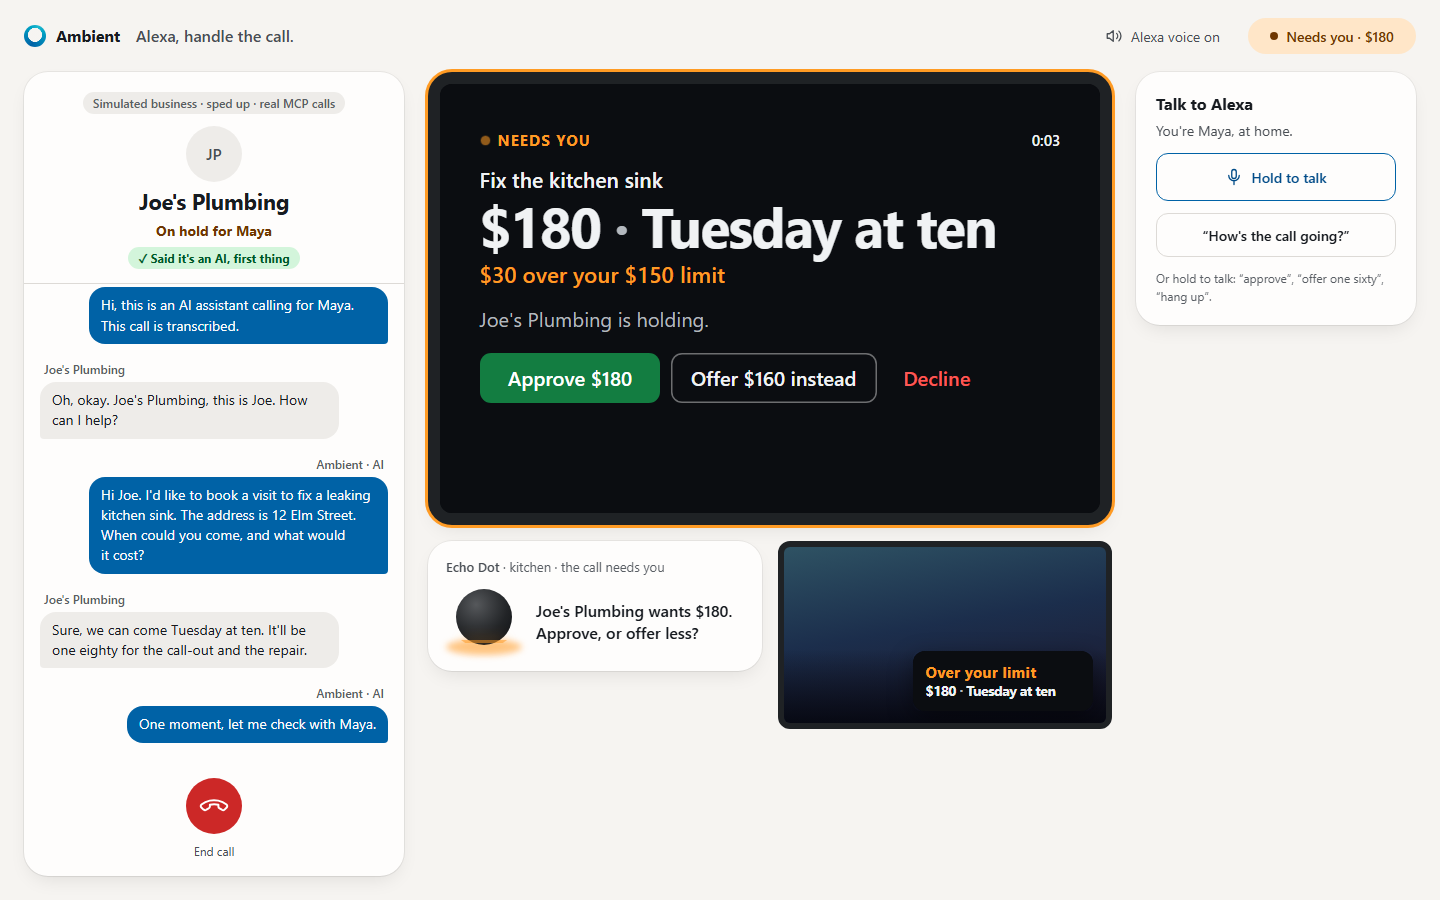
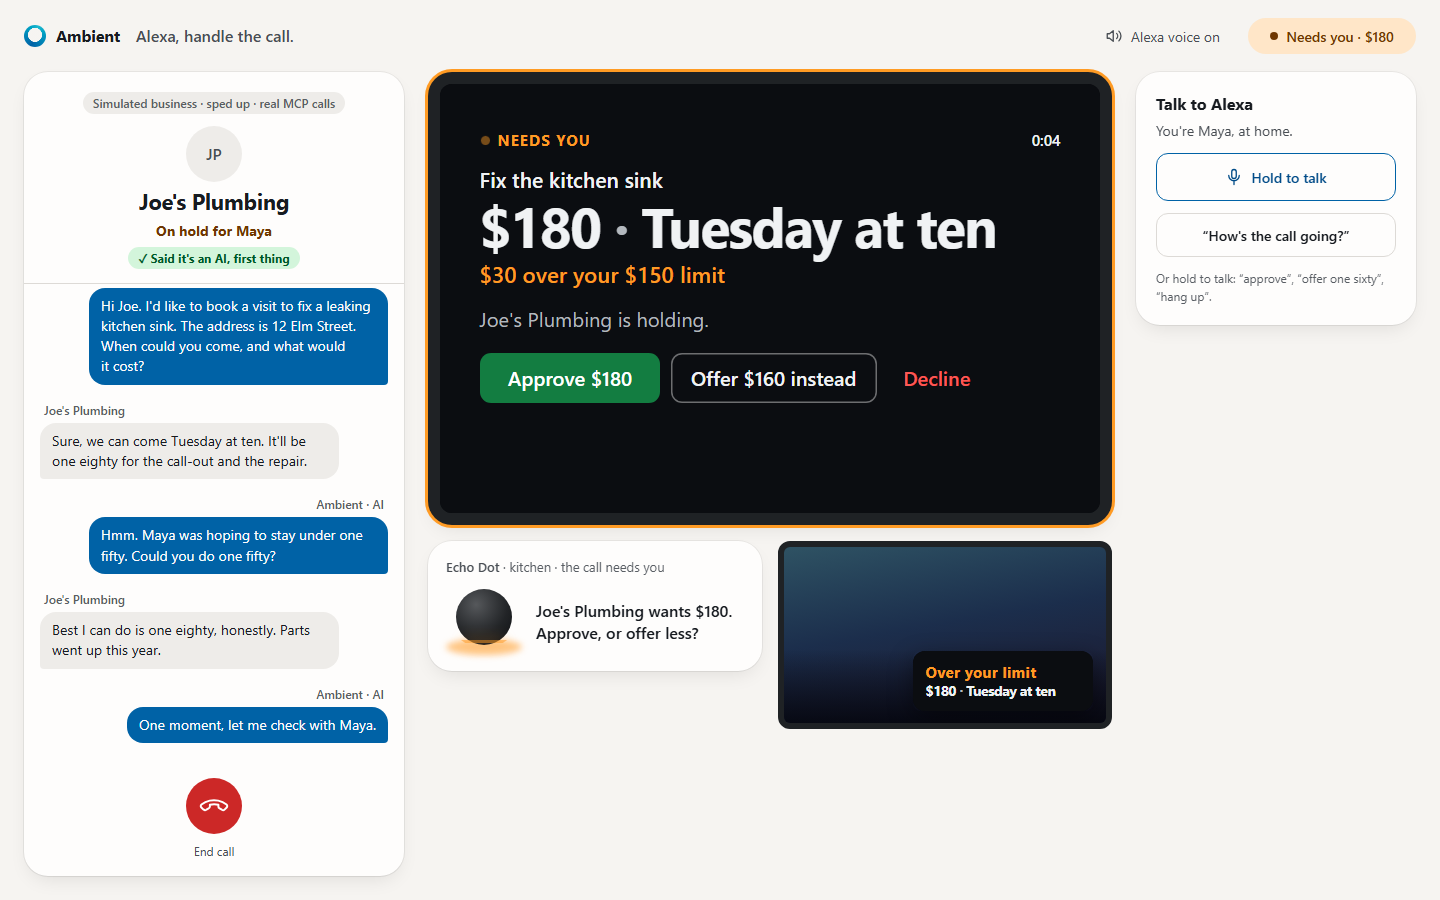
Speak like a person on the call and to the owner
The voice critic found a stacked question and menu on the approval, an
offer reply that never echoed the amount, third-person declines, and a
demo with no haggling. Alexa now asks one short question over the
limit ("Joe's Plumbing wants one hundred eighty dollars for Tuesday at
ten. Your limit is one hundred fifty dollars. Book it, or offer
less?"), echoes an offer ("Okay, offering one hundred sixty dollars"),
says "Okay, booking it at ..." on approval, and tells the owner "You
said no to ..." after a decline. The reprompt repeats the open
question instead of a generic prompt.

On the call, the scripted agent first counters at the owner's limit,
the business refuses once, and only then does the agent ask the owner.
The closing line names the time. The smoke run now prints both sides
of the call, and docs/demo/smoke-transcript.txt holds a fresh run.

Changed region(s): [[0.0312, 0.3111, 0.2812, 0.6222], [0.0312, 0.6844, 0.2188, 0.7467], [0.0938, 0.7467, 0.25, 0.8089]]

diff --git a/src/voice.ts b/src/voice.ts
@@ -1,5 +1,6 @@
 import type { Approval, RuntimeState, RunView } from "./types.js";
 import { dollarsInWords } from "./words.js";
+import { offerIn } from "./calls/rules.js";
 
 // Words that open an instruction but don't identify it.
 const FILLER = new Set(["please", "can", "could", "you", "hey", "ok", "okay", "just", "um"]);
@@ -54,6 +55,12 @@ function lastLineFrom(view: RunView, speaker: string): string | undefined {
 
 /** The approval ask on its own — used as the elicitation message. */
 export function approvalAsk(view: RunView, ctx: SpeakContext): string {
+  const business = callee(view);
+  const approval = view.approval;
+  if (business && approval?.kind === "spend" && approval.amountUsd !== undefined && approval.limitUsd !== undefined) {
+    const when = approval.when ? ` for ${approval.when}` : "";
+    return `${business} wants ${dollarsInWords(approval.amountUsd)}${when}. Your limit is ${dollarsInWords(approval.limitUsd)}. Book it, or offer less?`;
+  }
   const request = view.approval?.description ?? view.approval?.command;
   if (request && view.approval?.amountUsd !== undefined) {
     const amount = dollarsInWords(view.approval.amountUsd);
@@ -75,8 +82,10 @@ export function speak(view: RunView, ctx: SpeakContext): string {
   const business = callee(view);
   if (business) {
     if (view.status === "waiting_approval") {
+      const ask = approvalAsk(view, ctx);
+      if (ask.endsWith("Book it, or offer less?")) return ask;
       const choices = view.approval?.kind === "dial" ? "Say yes to place the call, or no." : "Say approve, deny, or offer a different amount.";
-      return `${approvalAsk(view, ctx)} ${choices}`;
+      return `${ask} ${choices}`;
     }
     if (view.status === "cancelled") return `You ended the call before ${business} confirmed. Nothing was booked.`;
     if (view.status === "running" || view.status === "accepted" || view.status === "queued") {
@@ -90,6 +99,8 @@ export function speak(view: RunView, ctx: SpeakContext): string {
       const outcome = view.outcome;
       if (outcome?.kind === "confirmed") return clampSentences(outcome.summary);
       if (outcome?.kind === "unconfirmed") return "The call ended before they confirmed, so I won't assume it's booked.";
+      const declined = outcome && /^\S+ declined (.+)$/.exec(outcome.reason);
+      if (declined) return `You said no to ${stripEnd(declined[1]!)}, so I ended the call. Nothing is booked.`;
       if (outcome) return clampSentences(`${stripEnd(outcome.reason)}.`);
       return clampSentences(view.answer ?? `${label} finished ${title}.`);
     }
@@ -118,8 +129,10 @@ export function speak(view: RunView, ctx: SpeakContext): string {
   }
 }
 
-export function steerReply(view: RunView, ctx: SpeakContext): string {
+export function steerReply(view: RunView, ctx: SpeakContext, said?: string): string {
   const business = callee(view);
+  const offer = said === undefined ? undefined : offerIn(said);
+  if (business && offer !== undefined) return `Okay, offering ${dollarsInWords(offer)}.`;
   return business ? `Okay, I'll tell ${business}.` : `Noted — passed that to ${ctx.label} while it works on "${view.title}".`;
 }
 

diff --git a/src/alexa.ts b/src/alexa.ts
@@ -2,7 +2,8 @@ import { timingSafeEqual } from "node:crypto";
 import type { OAuthProvider } from "./auth.js";
 import type { RuntimeEntry, RuntimeRegistry } from "./runtimes/registry.js";
 import type { RunStatus, RunView } from "./types.js";
-import { speak } from "./voice.js";
+import { speak, steerReply } from "./voice.js";
+import { dollarsInWords } from "./words.js";
 
 type AlexaEnvelope = Record<string, unknown>;
 
@@ -57,13 +58,18 @@ function speech(value: string): { type: "SSML"; ssml: string } {
   return { type: "SSML", ssml: `<speak>${escapeXml(value)}</speak>` };
 }
 
+function repromptFor(value: string): string {
+  const question = value.match(/[^.?!]+?$/)?.[0]?.trim();
+  return question ?? "What should I call about?";
+}
+
 function response(value: string, sessionAttributes: Record<string, unknown>, shouldEndSession = false): AlexaSkillResponse {
   return {
     version: "1.0",
     sessionAttributes,
     response: {
       outputSpeech: speech(value),
-      ...(shouldEndSession ? {} : { reprompt: { outputSpeech: speech("What would you like your assistants to do?") } }),
+      ...(shouldEndSession ? {} : { reprompt: { outputSpeech: speech(repromptFor(value)) } }),
       shouldEndSession
     }
   };
@@ -242,7 +248,8 @@ async function intentResponse(intent: AlexaEnvelope, attributes: Record<string, 
     if (!target) return response("There's no call in progress.", attributes);
     try {
       const run = await target.entry.engine.steer(target.run.id, message);
-      return response(run.subject ? `Okay, I'll tell ${run.subject}.` : "Okay, I'll tell them.", runAttributes(attributes, run));
+      const ctx = { label: target.entry.descriptor.label, state: target.entry.engine.runtime().state };
+      return response(run.subject ? steerReply(run, ctx, message) : "Okay, I'll tell them.", runAttributes(attributes, run));
     } catch (error) {
       return response(errorText(error), attributes);
     }
@@ -258,9 +265,12 @@ async function intentResponse(intent: AlexaEnvelope, attributes: Record<string, 
     try {
       let run = await target.entry.engine.respondToApproval(approval.id, choice);
       if (dependencies.askWaitMs) run = await target.entry.engine.waitForRun(run.id, dependencies.askWaitMs);
-      const prefix = choice === "once" ? "Okay, I'll tell them yes. " : "Okay, I'll say no. ";
       const ctx = { label: target.entry.descriptor.label, state: target.entry.engine.runtime().state };
-      return response(prefix + speak(run, ctx), runAttributes(attributes, run));
+      const amount = approval.amountUsd !== undefined ? ` at ${dollarsInWords(approval.amountUsd)}` : "";
+      const reply = run.status === "completed" || run.status === "waiting_approval"
+        ? `${choice === "once" ? "Okay." : "Okay, I'll say no."} ${speak(run, ctx)}`
+        : choice === "once" ? `Okay, booking it${amount}. I'll tell you when it's done.` : "Okay, I'll say no. I'll tell you how it ends.";
+      return response(reply, runAttributes(attributes, run));
     } catch (error) {
       return response(errorText(error), attributes);
     }

diff --git a/src/calls/demo.ts b/src/calls/demo.ts
@@ -1,4 +1,4 @@
-import { dollarsInWords } from "../words.js";
+import { dollarsInWords, numberInWords } from "../words.js";
 import type { ScriptedTurn } from "./brain.js";
 import type { BusinessPersona } from "./line.js";
 import { amountsIn } from "./rules.js";
@@ -9,6 +9,7 @@ export const JOES_PLUMBING: BusinessPersona = {
   rules: [
     { when: /^just to confirm\b/i, reply: "Yes, that's right. See you then." },
     { when: /\b(one (hundred )?sixty|160)\b/i, reply: "Alright, one sixty works. I'll put you down for Tuesday at ten." },
+    { when: /\bone fifty\b/i, reply: "Best I can do is one eighty, honestly. Parts went up this year." },
     { when: /\b(go ahead|book it|that works)\b/i, reply: "Great, you're booked for Tuesday at ten. That's one eighty." },
     { when: /\b(sink|leak|visit|plumb)/i, reply: "Sure, we can come Tuesday at ten. It'll be one eighty for the call-out and the repair." }
   ]
@@ -18,6 +19,12 @@ export const JOES_PLUMBING_HANGS_UP: BusinessPersona = {
   ...JOES_PLUMBING,
   rules: [{ when: /\b(sink|leak|visit|plumb)/i, reply: "It's one eighty, take it or leave it. I've got another call.", hangUp: true }]
 };
+
+function spokenLimit(amount: number): string {
+  const hundreds = Math.floor(amount / 100);
+  const rest = amount % 100;
+  return hundreds > 0 && hundreds < 10 && rest >= 10 ? `${numberInWords(hundreds)} ${numberInWords(rest)}` : numberInWords(amount);
+}
 
 export const DEMO_SCRIPT: ScriptedTurn[] = [
   {
@@ -48,16 +55,20 @@ export const DEMO_SCRIPT: ScriptedTurn[] = [
     when: /\b(it'll be|it's) one eighty\b/i,
     reply: (_, state) => (state.brief.maxUsd ?? 0) >= 180
       ? [{ kind: "say", text: "That works. Please go ahead and book Tuesday at ten.", last: true }]
-      : [{
-          kind: "ask_owner",
-          question: `Joe's Plumbing can come Tuesday at ten for one hundred eighty dollars, over your limit of ${dollarsInWords(state.brief.maxUsd ?? 0)}. Should I book it?`,
-          amountUsd: 180,
-          when: "Tuesday at ten"
-        }]
+      : [{ kind: "say", text: `Hmm. ${state.brief.ownerName} was hoping to stay under ${spokenLimit(state.brief.maxUsd ?? 0)}. Could you do ${spokenLimit(state.brief.maxUsd ?? 0)}?`, last: true }]
+  },
+  {
+    when: /\bbest i can do is one eighty\b/i,
+    reply: (_, state) => [{
+      kind: "ask_owner",
+      question: `Joe's Plumbing can come Tuesday at ten for one hundred eighty dollars, over your limit of ${dollarsInWords(state.brief.maxUsd ?? 0)}. Should I book it?`,
+      amountUsd: 180,
+      when: "Tuesday at ten"
+    }]
   },
   {
     when: /approved:/i,
-    reply: () => [{ kind: "say", text: "Thanks for waiting. That works, please go ahead and book Tuesday at ten.", last: true }]
+    reply: (_, state) => [{ kind: "say", text: `Thanks for waiting. ${state.brief.ownerName} says one eighty is fine. Please go ahead and book Tuesday at ten.`, last: true }]
   },
   {
     when: /declined:/i,

diff --git a/test/voice.test.ts b/test/voice.test.ts
@@ -117,6 +117,22 @@ describe("speak", () => {
       expect(speak(call({ status: "waiting_approval", approval }), { label: "Ambient" })).toBe(`${question} Say approve, deny, or offer a different amount.`);
     });
 
+    it("asks one short question when the price is over the limit", () => {
+      const overLimit = { ...approval, limitUsd: 150, when: "Tuesday at ten" };
+      expect(speak(call({ status: "waiting_approval", approval: overLimit }), { label: "Ambient" })).toBe(
+        "Joe's Plumbing wants one hundred eighty dollars for Tuesday at ten. Your limit is one hundred fifty dollars. Book it, or offer less?"
+      );
+    });
+
+    it("echoes the amount when the owner offers one", () => {
+      expect(steerReply(call({ status: "running" }), { label: "Ambient" }, "offer 160")).toBe("Okay, offering one hundred sixty dollars.");
+    });
+
+    it("tells the owner in their own terms that they declined", () => {
+      const ended = call({ status: "completed", outcome: { kind: "no_deal", reason: "Maya declined one hundred eighty dollars" } });
+      expect(speak(ended, { label: "Ambient" })).toBe("You said no to one hundred eighty dollars, so I ended the call. Nothing is booked.");
+    });
+
     it("names the business from the run's subject even after early steps scroll away", () => {
       const view0 = view({ title: "Find a plumber", subject: "Pete's Pipes", status: "running", steps: ["Pete's Pipes: Hello?"] });
       expect(speak(view0, { label: "Ambient" })).toBe("Ambient is on the phone with Pete's Pipes. They just said: Hello?");

diff --git a/scripts/smoke-mcp.ts b/scripts/smoke-mcp.ts
@@ -8,7 +8,7 @@ const transport = new StreamableHTTPClientTransport(new URL(endpoint), token ? {
 } : undefined);
 const client = new Client({ name: "ambient-smoke", version: "0.1.0" });
 
-type Result = { structuredContent?: { speech?: string; status?: string }; content?: Array<{ type: string; text?: string }> };
+type Result = { structuredContent?: { speech?: string; status?: string; task?: { steps?: string[] } }; content?: Array<{ type: string; text?: string }> };
 
 const speech = (result: Result) => result.structuredContent?.speech ?? result.content?.find(item => item.type === "text")?.text ?? "";
 const status = (result: Result) => result.structuredContent?.status ?? "";
@@ -42,6 +42,8 @@ try {
   await call("delegate", { task: "offer 160" });
   const done = await waitFor(["completed", "failed", "cancelled", "unknown"]);
   if (status(done) !== "completed" || !/one hundred sixty/i.test(speech(done))) throw new Error(`Expected a confirmed booking at 160, got ${status(done)}: ${speech(done)}`);
+  console.log("\nThe call itself (Ambient and the simulated business, with the owner's notes):");
+  for (const line of done.structuredContent?.task?.steps ?? []) if (line.includes(": ")) console.log(`  ${line}`);
   console.log("smoke: ok, the simulated call ended confirmed at the steered price");
 } finally {
   await client.close();

diff --git a/src/mcp.ts b/src/mcp.ts
@@ -133,7 +133,7 @@ export function createMcpServer({ registry, askWaitMs = 0 }: McpDependencies): M
           throw new Error(`${entry.descriptor.label} is still working on "${active.title}" and can't be steered. Wait for it to finish, or say stop first.`);
         }
         const view = await entry.engine.steer(active.id, task);
-        return runResult(view, { label: entry.descriptor.label }, steerReply(view, { label: entry.descriptor.label }));
+        return runResult(view, { label: entry.descriptor.label }, steerReply(view, { label: entry.descriptor.label }, task));
       }
       const view = await entry.engine.ask(task, conversationId, newConversation ?? false, { waitMs: askWaitMs });
       return await settleApproval(entry, view, extra.requestId);

diff --git a/test/call-session.test.ts b/test/call-session.test.ts
@@ -528,7 +528,7 @@ describe("the rest of the table", () => {
   it("emits the closing line's transcript before the run completes", () => {
     const { effects } = play([answered, heard("Tuesday for 140 works"), confirm(140), ...yes]);
     const order = effects.flatMap(effect => (effect.kind === "emit" ? [effect.event.type === "message.complete" ? "complete" : String("text" in effect.event.payload ? effect.event.payload.text : "")] : []));
-    expect(order.slice(-2)).toEqual(["Ambient: Great, thank you so much. Goodbye.", "complete"]);
+    expect(order.slice(-2)).toEqual(["Ambient: Perfect, thanks so much. Goodbye.", "complete"]);
   });
 
   it("assembles a streamed agent turn into one transcript line", () => {

diff --git a/src/calls/session.ts b/src/calls/session.ts
@@ -213,7 +213,7 @@ function price(amount: number): string {
 }
 
 function close(state: CallState, outcome: Exclude<CallOutcome, { kind: "unconfirmed" }>, now: string, line?: string): Transition {
-  const closing = line ?? (outcome.kind === "confirmed" ? "Great, thank you so much. Goodbye." : "Okay, thanks for your time. Goodbye.");
+  const closing = line ?? (outcome.kind === "confirmed" ? (outcome.when ? `Perfect, see you ${outcome.when}. Thanks, goodbye.` : "Perfect, thanks so much. Goodbye.") : "Okay, thanks for your time. Goodbye.");
   return end(withTurn(flushDraft(state, now), "agent", closing, now), outcome, [say(closing), { kind: "hang_up" }]);
 }
 

diff --git a/test/alexa.test.ts b/test/alexa.test.ts
@@ -88,7 +88,7 @@ describe("Alexa call intents", () => {
     });
     const result = await handleAlexaRequest(request("AMAZON.YesIntent"), deps);
     expect(fake.client.respondToApproval).toHaveBeenCalledWith("runtime-1", "req-1", "once");
-    expect(speechOf(result)).toContain("tell them yes");
+    expect(speechOf(result)).toContain("booking it at one hundred eighty dollars");
     close();
   });
 

diff --git a/README.md b/README.md
@@ -89,7 +89,7 @@ pnpm call
 ## Verification
 
 ```sh
-pnpm scan    # typecheck, eslint, knip, and 529 tests
+pnpm scan    # typecheck, eslint, knip, and 532 tests
 pnpm build
 pnpm smoke:mcp            # a full simulated call through /mcp
 python scripts/shots-sim.py   # every call state, light and dark, into docs/media/
